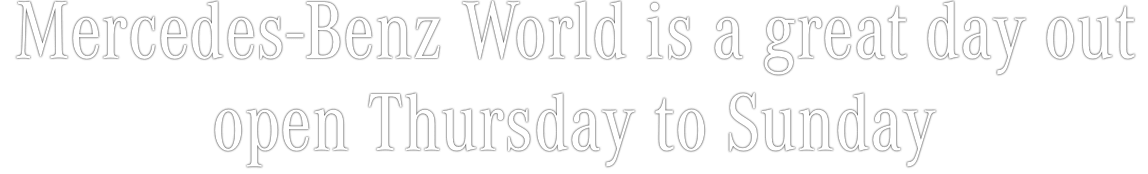
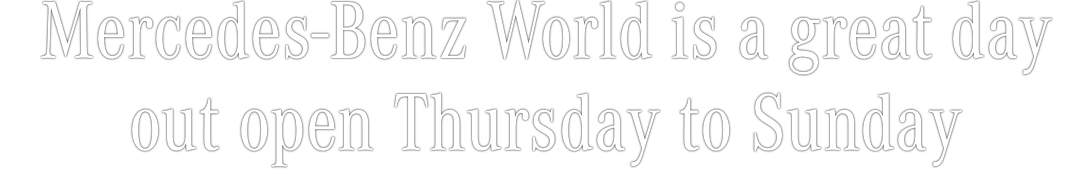
update h1 width

diff --git a/complete/mbw/Extended Opening Email - CODE/7807 - MB World Extended Opening ADOBE_V1.html b/complete/mbw/Extended Opening Email - CODE/7807 - MB World Extended Opening ADOBE_V1.html
@@ -471,7 +471,7 @@
                         <td rowspan="2" class="medium-hide" style="width: 10.434782609%" width="10.434782609%">&nbsp;</td>
                         <td class="padding" colspan="3" align="center" style="padding-top: 45px">
                           <div class="mobile-hide">
-                            <h1 style="Margin: 0 0 20px; line-height: 1"><img src="images/h1-d@2x.png" alt="Mercedes-Benz World is a great day out open Thursday to Sunday" style="display: block; width: 574px; max-width: 100%;" class="full-width" width="574" border="0"></h1>
+                            <h1 style="Margin: 0 0 20px; line-height: 1"><img src="images/h1-d@2x.png" alt="Mercedes-Benz World is a great day out open Thursday to Sunday" style="display: block; width: 546px; max-width: 100%;" class="full-width" width="546" border="0"></h1>
                           </div>
                           <!--[if !mso]><!-->
                           <div class="mobile-show" style="display:none; max-height:0px; height:0; width:0; font-size:0; line-height:0; overflow:hidden; mso-hide:all;">
